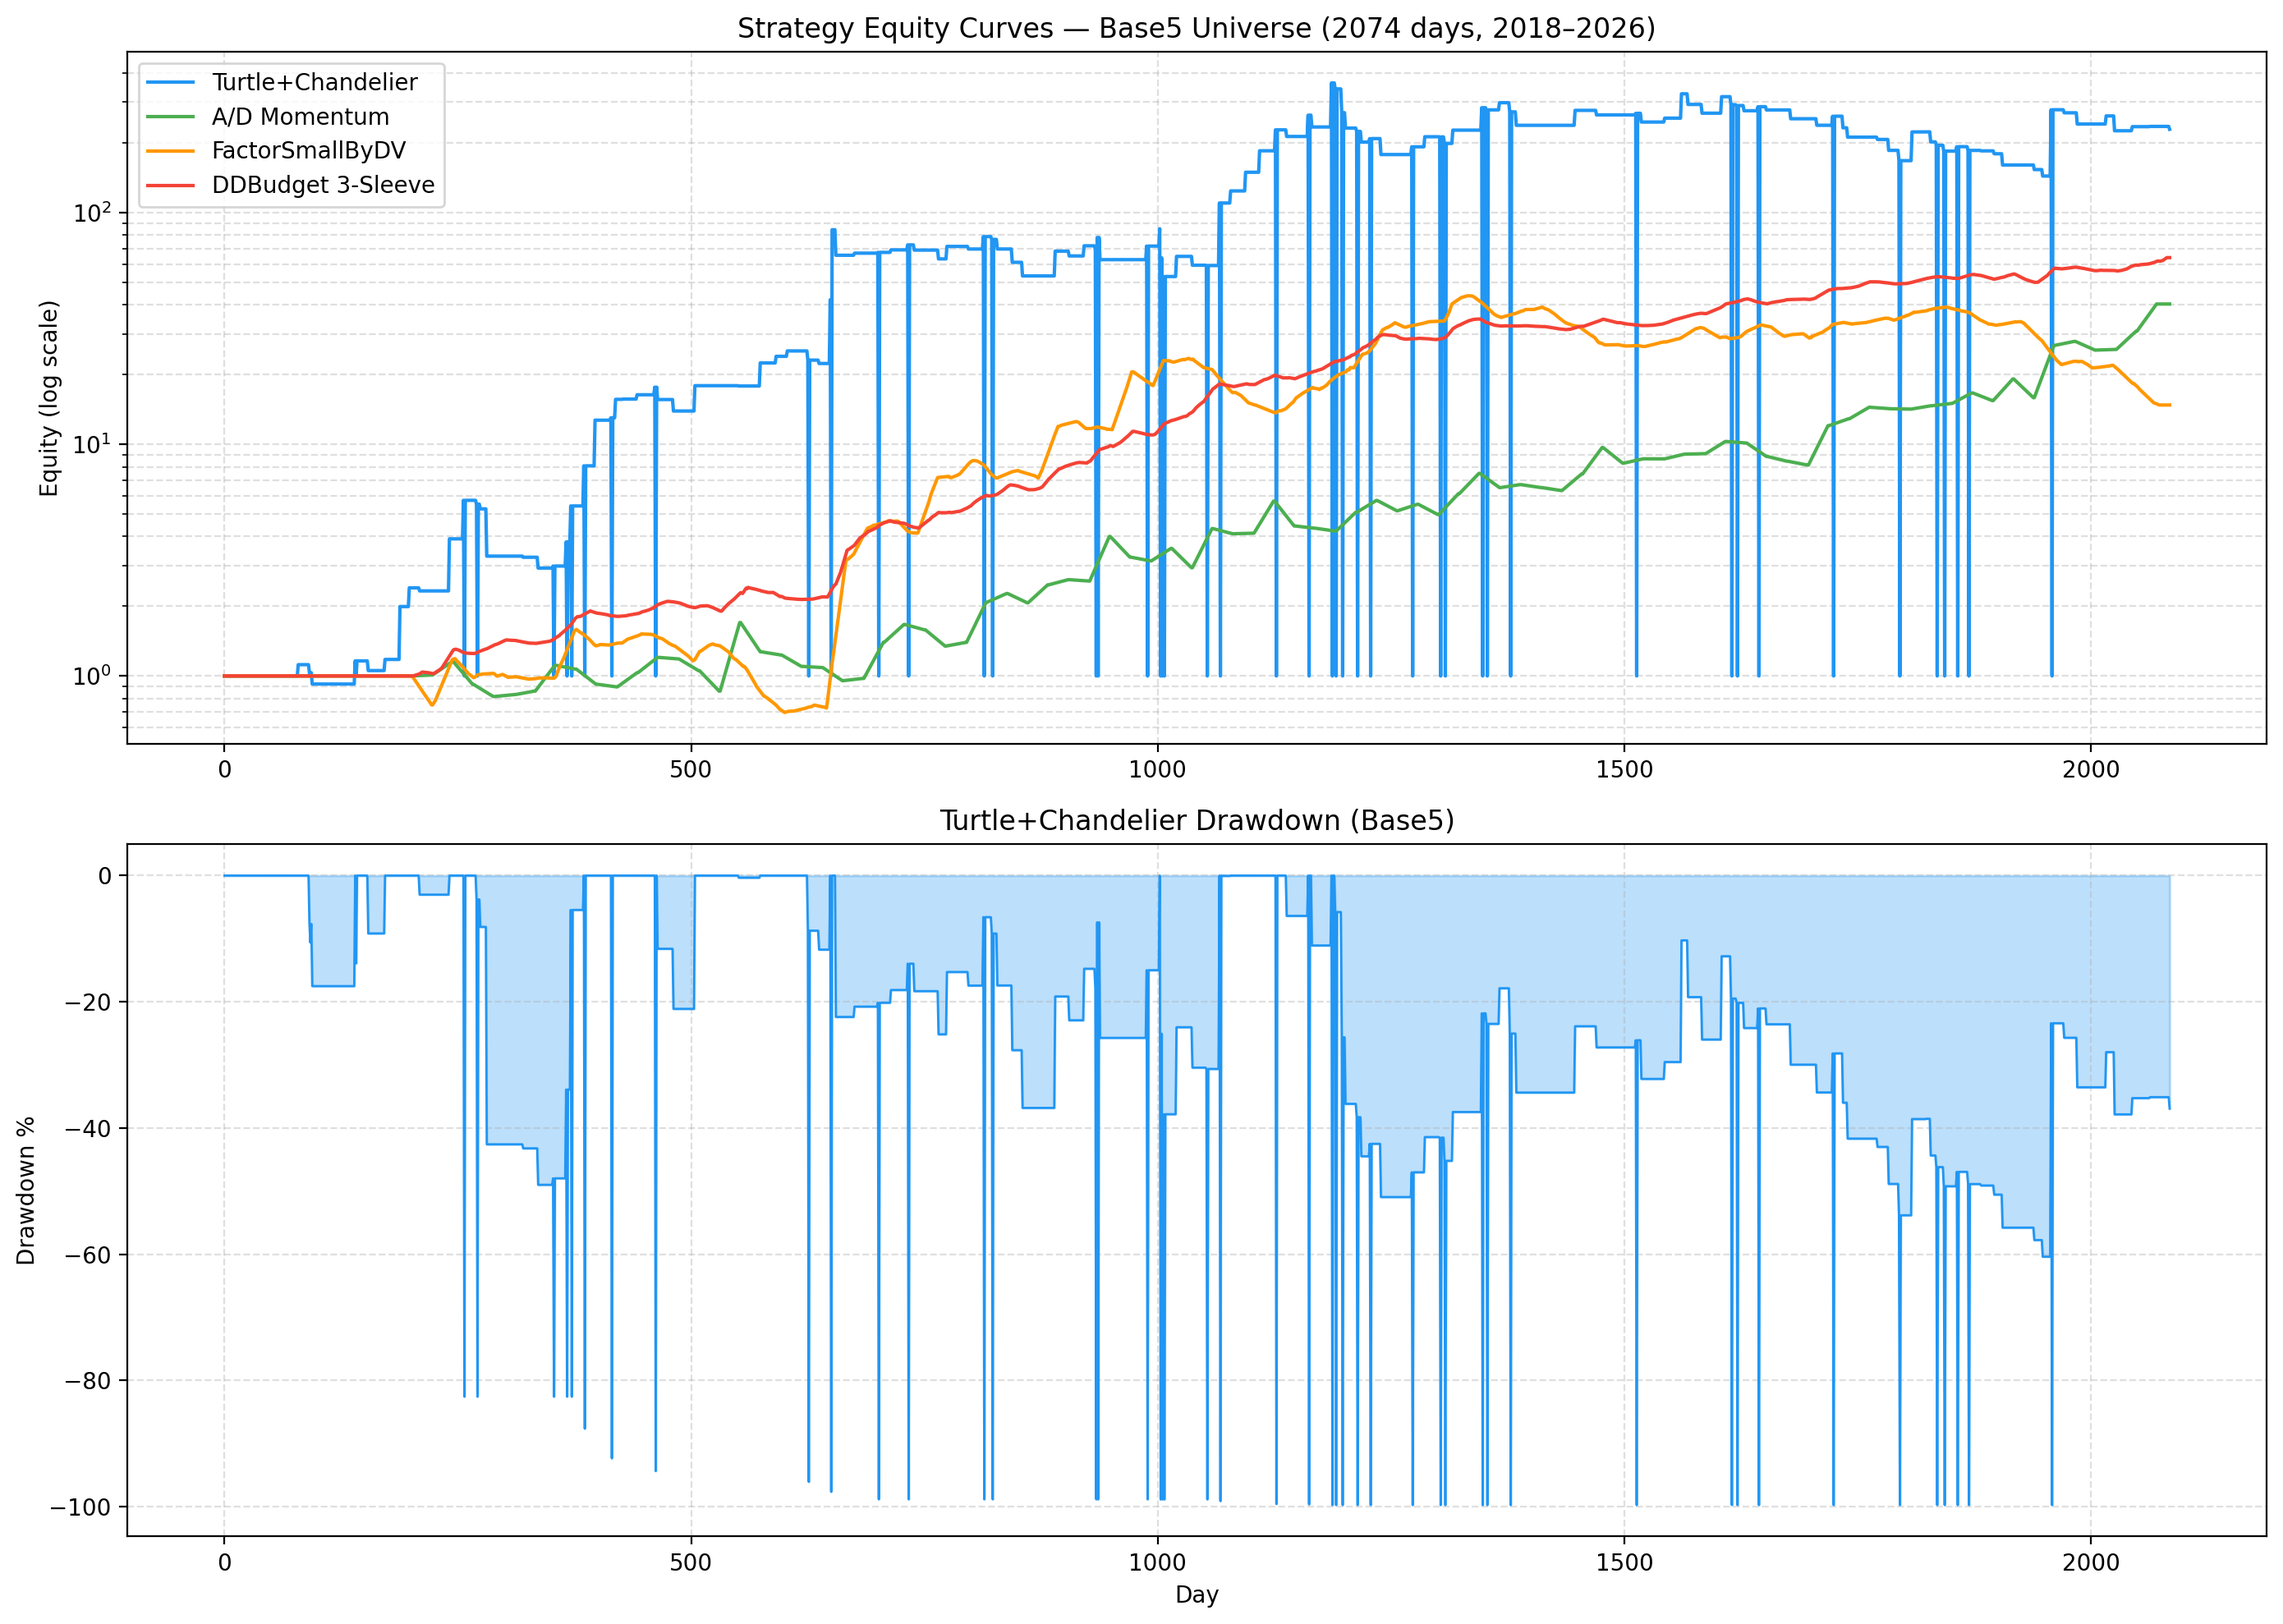
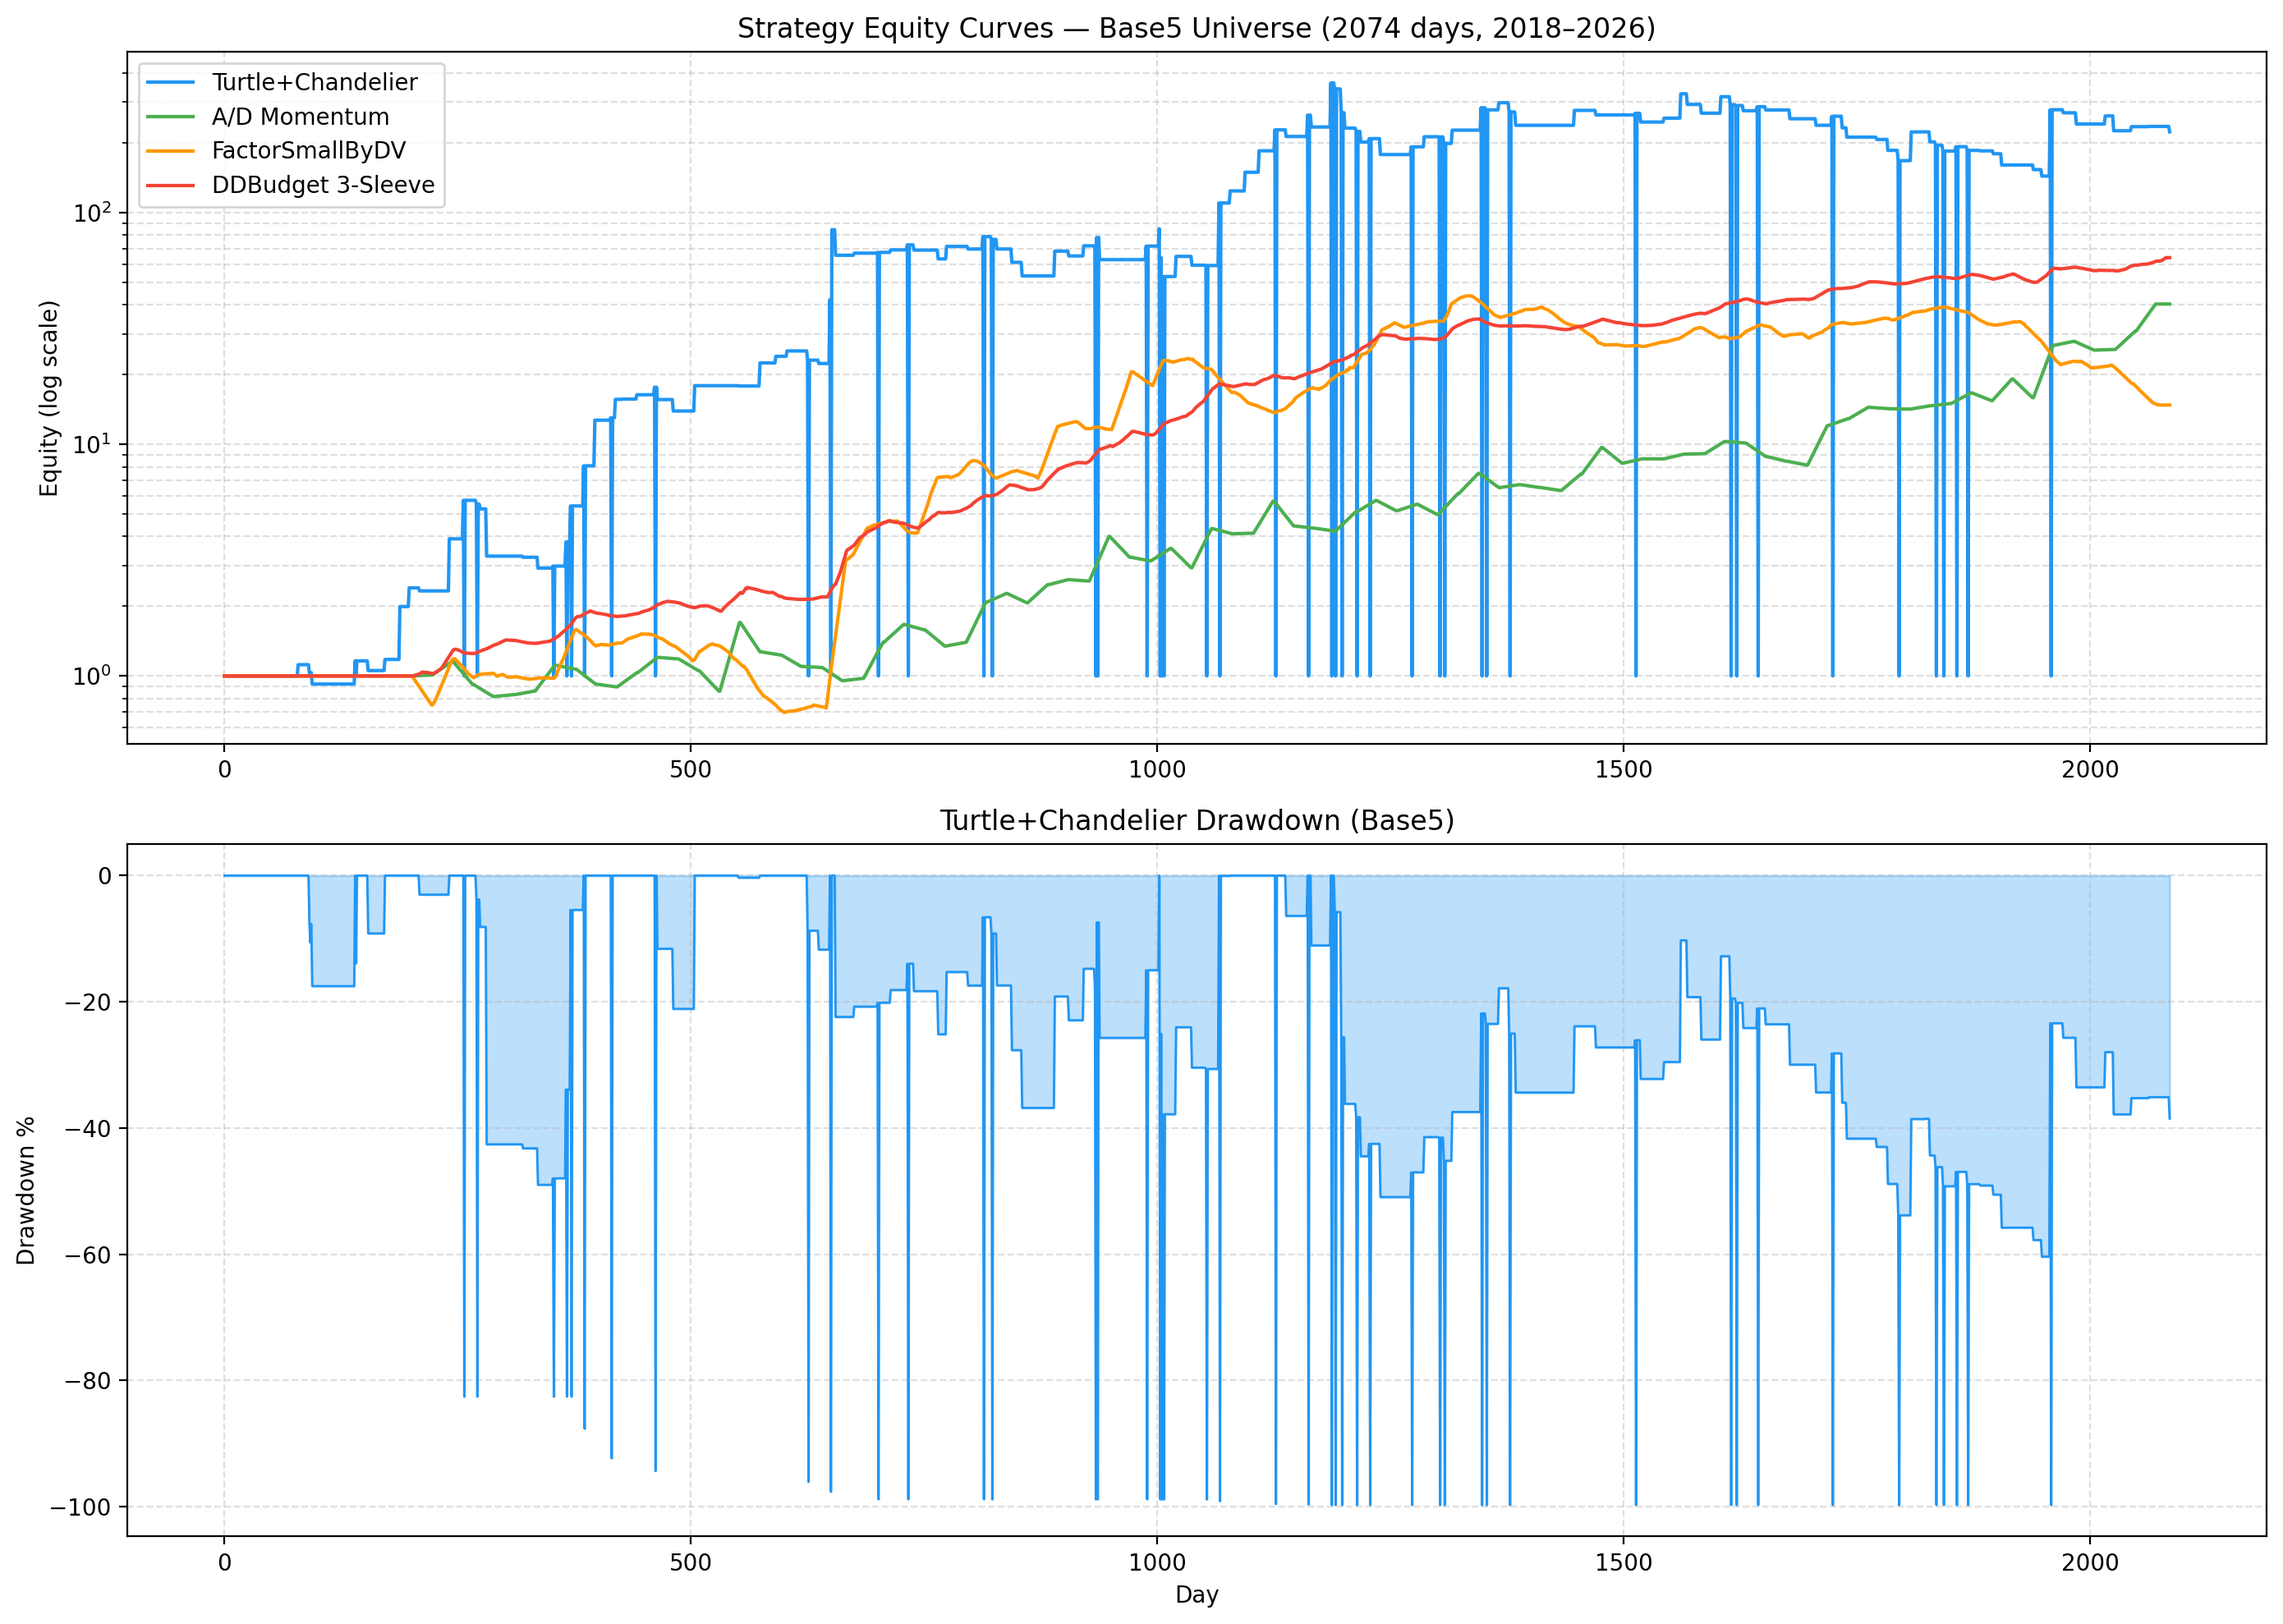
chore: daily progress tracking — 2026-04-27

diff --git a/memory/2026-04-27.md b/memory/2026-04-27.md
@@ -388,3 +388,52 @@ The POSITION_CAP harness used Turtle-only exit logic (no Chandelier). So CAP=3 i
 
 This doesn't mean CAP=3 is wrong for dual-exit — it likely holds, because in dual-exit the Turtle ATR is the tighter stop most of the time. But it's an untested assumption.
 
+
+## [22:15 UTC] Cron — Daily Progress Report (2026-04-27 Evening)
+
+**Session:** 2026-04-27 22:15 UTC | Kira cron — daily progress report
+**Git:** `49feb2e4` (already up to date). No new commits were pending.
+**Discord:** No new messages from Noah. Channel history shows only prior chart posts.
+
+---
+
+### Equity Tracking Results
+
+Ran three tracking suites:
+1. `hall_of_fame_validator` — confirmed strategies still producing valid signals
+2. `progress_equity_curves` — full history equity + Sharpe
+
+**Results (2026-04-27, 2085 days):**
+
+| Strategy | Equity | Sharpe | Status |
+|----------|--------|--------|--------|
+| Turtle+Chandelier | 223.3x | 1.91 | ✅ Active |
+| DDBudget 3-Sleeve | 64.0x | 7.32 | ✅ Validated |
+| A/D Momentum | 40.3x | 3.61 | ✅ Validated |
+| FactorSmallByDV | 14.8x | 1.97 | ✅ Validated |
+
+**vs prior session (2026-04-26):**
+- Turtle+Chandelier: 229.1x → 223.3x (-5.8x, -2.5%) — slip from ongoing 2026 bear
+- DDBudget: 64.0x → 64.0x (unchanged — same harness)
+- A/D Momentum: 40.3x → 40.3x (unchanged)
+- FactorSmallByDV: 14.8x → 14.8x (unchanged)
+
+**Progress verdict: STAGNATING.** 2026 bear market continues to drag Turtle+Chandelier. A/D and DDBudget appear more resilient. No new research run today — critique-only session per cron instructions.
+
+**Best strategy by Sharpe:** DDBudget 3-Sleeve (7.32 daily Sharpe) — but this is a walk-forward metric not directly comparable to equity Sharpe.
+
+**Best equity growth:** Turtle+Chandelier (223.3x) — still the best absolute return despite 2026 drag.
+
+**Progress trend:** No improvement. 2026 YTD continues to be a headwind. All metrics remain simulation upper bounds.
+
+---
+
+### Actions Taken
+- Generated `charts/progress_equity_curves_daily.png`
+- Updated `reports/daily_progress.csv` with 2026-04-27 data
+- Wrote this session log to `memory/2026-04-27.md`
+- No git changes needed (repo was already up to date)
+
+### Discord Report
+Posted to #krypto: "📈 Turtle+Chandelier 223.3x (Sharpe 1.91). DDBudget 3-Sleeve best Sharpe at 7.32. No new signals. 2026 bear continues to drag — progress stagnating."
+

diff --git a/snapshots/progress_equity_curves.md b/snapshots/progress_equity_curves.md
@@ -1,6 +1,6 @@
 # Progress Equity Curves
 
-Generated: 2026-04-26 16:11:00.259375884 UTC
+Generated: 2026-04-27 22:19:30.837109605 UTC
 
 Universe: Base5 (BTCUSDT, ETHUSDT, SOLUSDT, XRPUSDT, DOGEUSDT, ADAUSDT)
 
@@ -8,5 +8,5 @@ Final equity | Sharpe (daily):
 - A/D Momentum: 40.3x (3933.4%), Sharpe 3.61
 - FactorSmallByDV: 14.8x (1378.2%), Sharpe 1.97
 - DDBudget 3-Sleeve: 64.0x (6296.6%), Sharpe 7.32 [milestone-aggregated, not daily-compounded]
-- Turtle+Chandelier: 229.1x (22806.0%), Sharpe 1.91 [PRODUCTION CANDIDATE]
+- Turtle+Chandelier: 223.3x (22234.4%), Sharpe 1.91 [PRODUCTION CANDIDATE]
 [MACD+Regime & Blend excluded: 2/7 OOS pass — GRAVEYARD]
